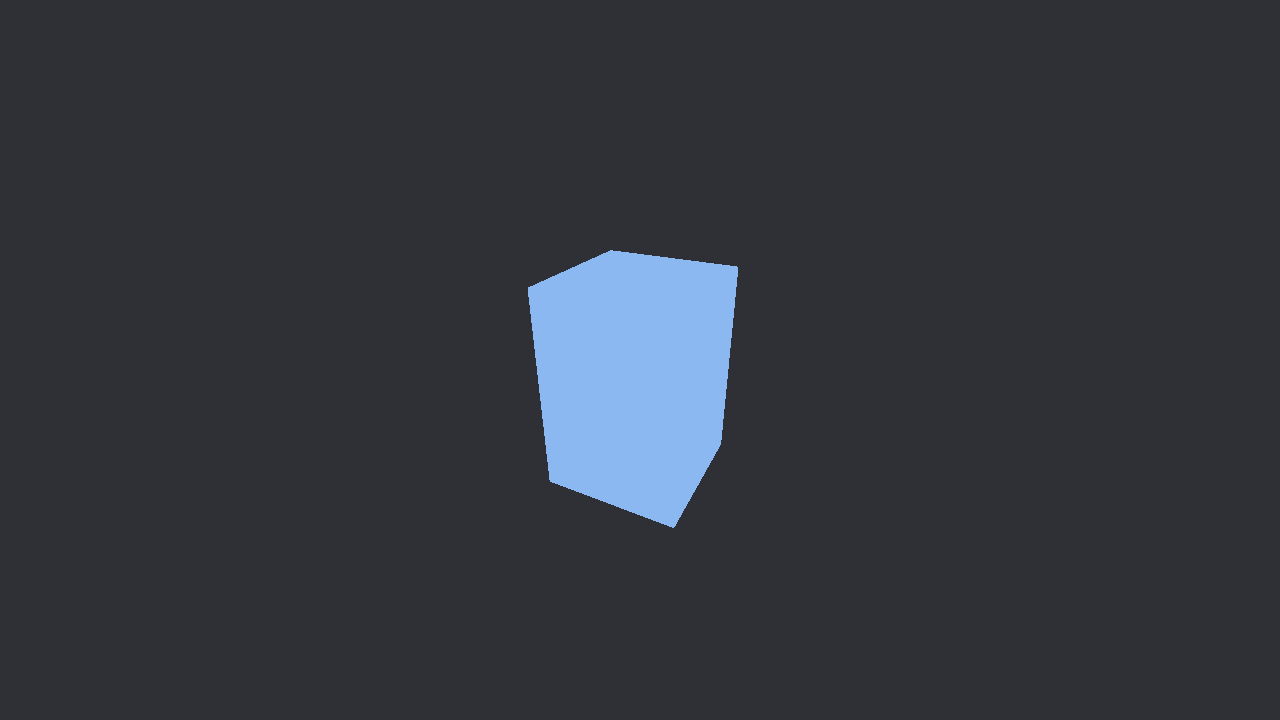
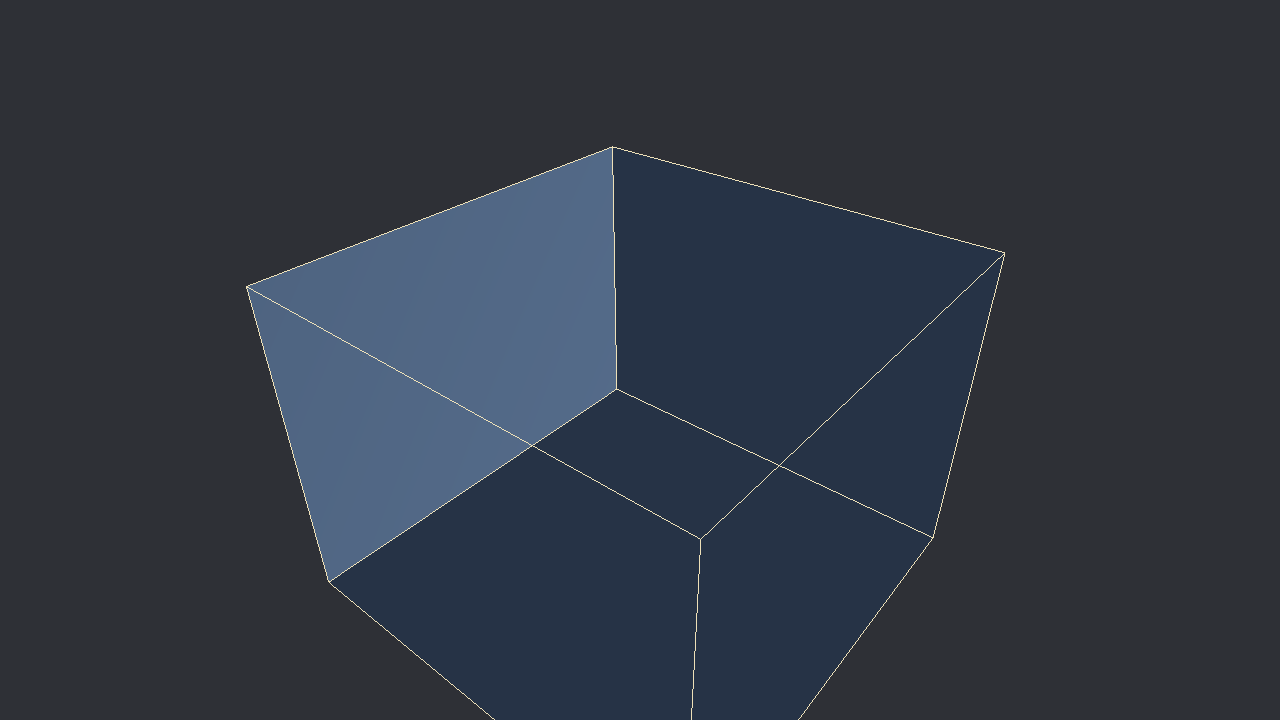
Hollow the room tutorial from the top face instead of stretching a box.

Changed region(s): [[0.1875, 0.1833, 0.5938, 0.825]]

diff --git a/website/app/page.js b/website/app/page.js
@@ -26,9 +26,9 @@ export default function Home() {
         </Link>
       </div>
       <Figure
-        src="/img/solid-extrude.png"
-        alt="A blue SlabSolid box with its top face pulled upward."
-        caption="A box after a face extrude. That move is the core loop."
+        src="/img/solid-room.png"
+        alt="A hollow SlabSolid with an open top, inner walls, and a floor."
+        caption="Inset the top, then drag the inner face down. Walls and a floor. No roof."
       />
       <section className="mt-16 grid gap-8 sm:grid-cols-3">
         <div>
